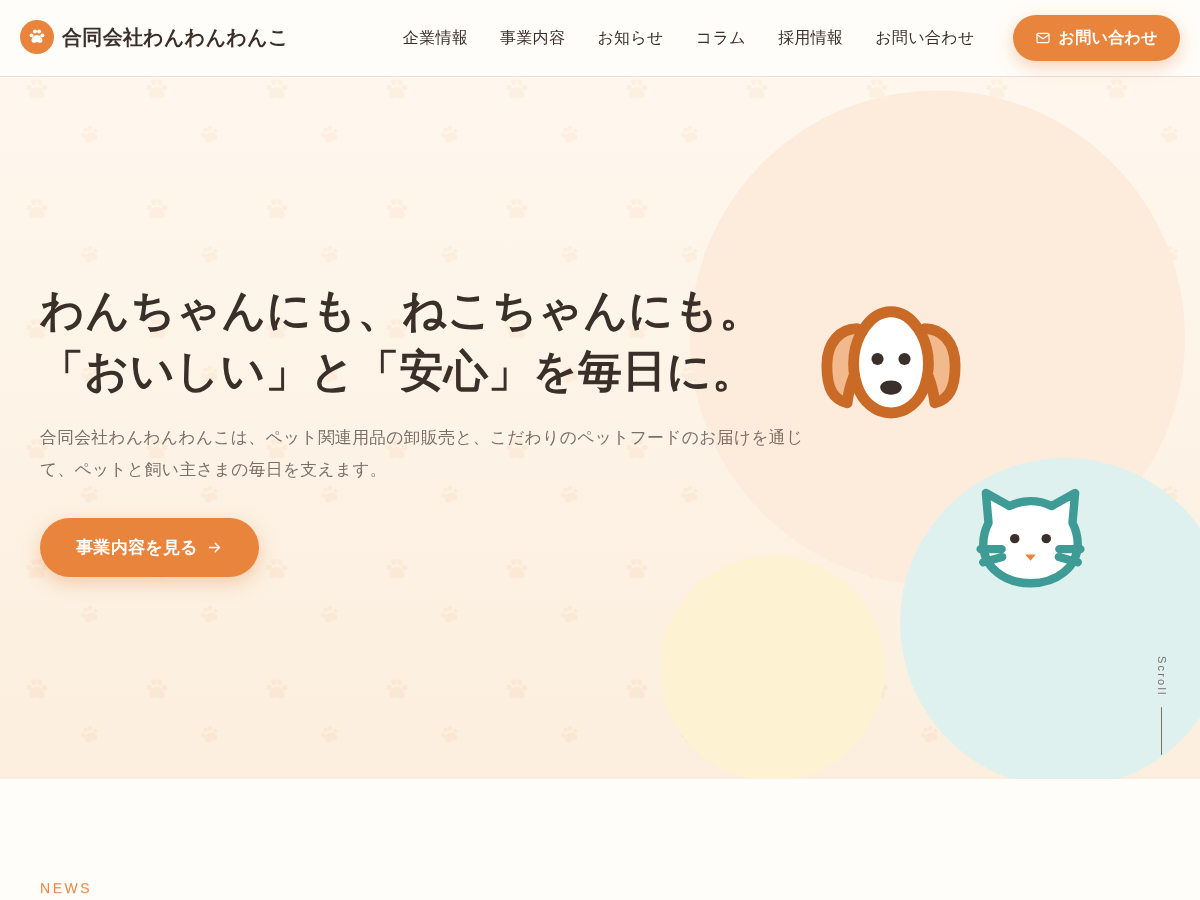
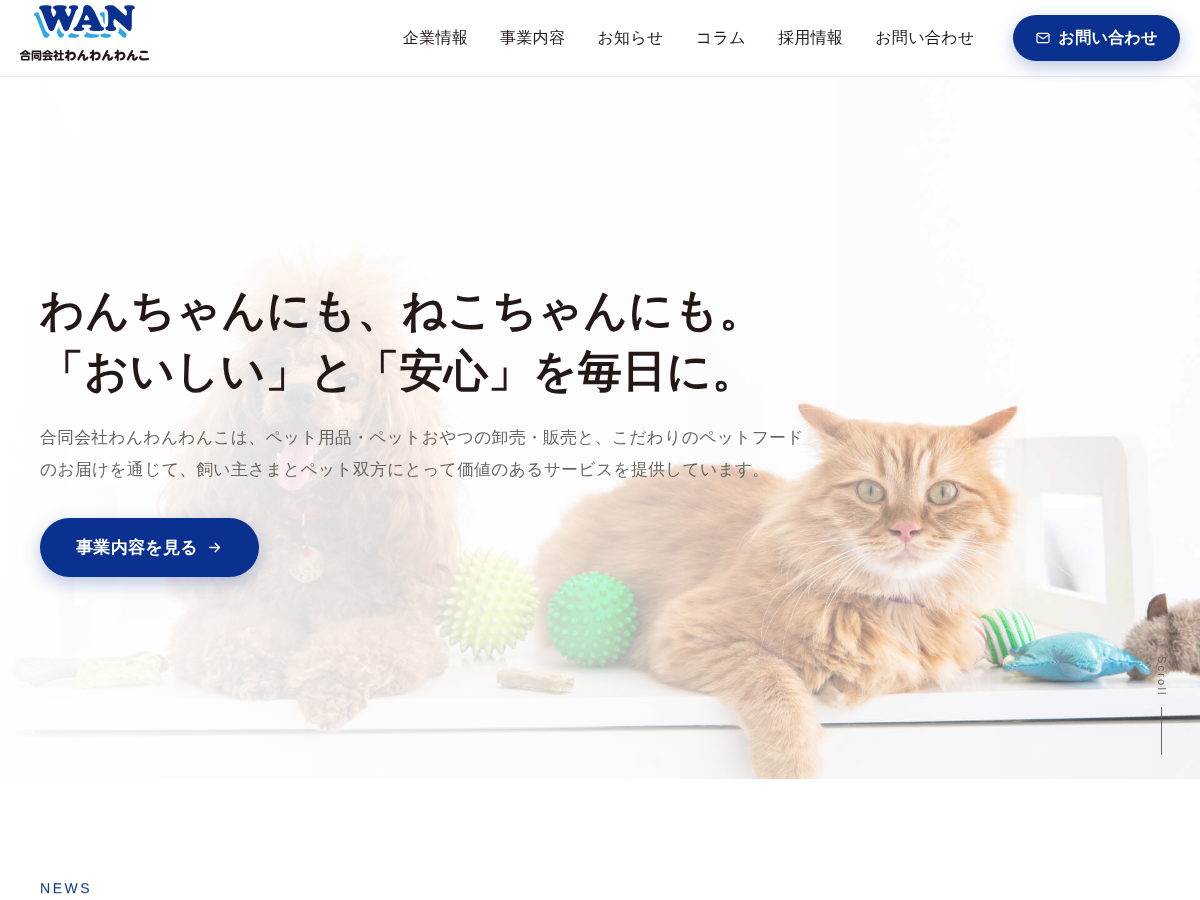
ロゴ配色（濃紺・水色）へ変更し、現行サイトの素材・文言を初期値に反映
- ロゴSVG・写真3点をテーマに同梱し、メインビジュアル／犬フードカード／お約束背景の初期画像に設定
- 会社概要（代表者・所在地・電話・FAX・メール）、にゃんにゃんデリバリーフーズURL、ごあいさつ・お約束文言を現行サイトから反映
- 事業内容ページに卸販売の説明文と主要取引メーカー一覧セクションを追加（カスタマイザーで編集可）
- 参考サイトの構成を踏襲したフッター・サイトマップを維持

Claude-Session: https://claude.ai/code/session_011bhno5SEkpzsshMJkjn4Yk

diff --git a/wp-content/themes/wanko/assets/css/main.css b/wp-content/themes/wanko/assets/css/main.css
@@ -3,22 +3,22 @@
    ========================================================================== */
 
 :root {
-	--c-primary: #e8843c;      /* わんこオレンジ */
-	--c-primary-dark: #c96a26;
-	--c-primary-soft: #fdebdc;
-	--c-accent: #3f9b96;       /* にゃんこティール */
-	--c-accent-soft: #dff1ef;
+	--c-primary: #0a3190;      /* ロゴの濃紺 */
+	--c-primary-dark: #072470;
+	--c-primary-soft: #e4ebf9;
+	--c-accent: #2ea8e1;       /* ロゴの水色 */
+	--c-accent-soft: #dff3fb;
 	--c-yellow: #f6c344;
-	--c-text: #3b2f2a;
-	--c-muted: #7d6f68;
-	--c-line: #eadfd6;
-	--c-bg: #fffdf9;
-	--c-bg-alt: #fbf4ec;
+	--c-text: #231815;         /* ロゴの文字色 */
+	--c-muted: #6b6560;
+	--c-line: #e3e8f0;
+	--c-bg: #ffffff;
+	--c-bg-alt: #f3f6fb;
 	--c-white: #ffffff;
 	--f-body: "Noto Sans JP", "Hiragino Kaku Gothic ProN", "Hiragino Sans", Meiryo, sans-serif;
 	--f-head: "Zen Maru Gothic", "Noto Sans JP", "Hiragino Maru Gothic ProN", sans-serif;
 	--radius: 16px;
-	--shadow: 0 10px 30px rgba(59, 47, 42, 0.08);
+	--shadow: 0 10px 30px rgba(10, 49, 144, 0.08);
 	--container: 1120px;
 	--header-h: 76px;
 }
@@ -76,7 +76,7 @@ iframe { max-width: 100%; }
 	padding: 12px 24px; border-radius: 999px; font-weight: 700; line-height: 1.4;
 	border: 2px solid transparent; white-space: nowrap;
 }
-.btn--primary { background: var(--c-primary); color: #fff; box-shadow: 0 6px 18px rgba(232, 132, 60, .35); }
+.btn--primary { background: var(--c-primary); color: #fff; box-shadow: 0 6px 18px rgba(10, 49, 144, .28); }
 .btn--primary:hover { background: var(--c-primary-dark); color: #fff; transform: translateY(-2px); }
 .btn--ghost { background: #fff; color: var(--c-primary-dark); border-color: var(--c-primary); }
 .btn--ghost:hover { background: var(--c-primary-soft); }
@@ -88,12 +88,14 @@ iframe { max-width: 100%; }
 /* Header ----------------------------------------------------------------- */
 .site-header {
 	position: sticky; top: 0; z-index: 100;
-	background: rgba(255, 253, 249, .92); backdrop-filter: blur(10px);
+	background: rgba(255, 255, 255, .92); backdrop-filter: blur(10px);
 	border-bottom: 1px solid var(--c-line);
 }
 .site-header__inner { width: min(100% - 40px, 1240px); margin-inline: auto; min-height: var(--header-h); display: flex; align-items: center; justify-content: space-between; gap: 24px; }
 .site-header__brand .custom-logo-link img, .site-header__brand .custom-logo { max-height: 52px; width: auto; }
 .site-logo--text { display: inline-flex; align-items: center; gap: 8px; font-family: var(--f-head); font-weight: 700; font-size: 20px; color: var(--c-text); }
+.site-logo--image { display: inline-flex; }
+.site-logo--image img { height: 56px; width: auto; }
 .site-logo__mark { display: inline-flex; width: 34px; height: 34px; border-radius: 50%; background: var(--c-primary); color: #fff; align-items: center; justify-content: center; }
 .site-logo__mark .icon { width: 20px; height: 20px; }
 
@@ -117,9 +119,10 @@ iframe { max-width: 100%; }
 
 /* Hero ------------------------------------------------------------------- */
 .hero { position: relative; min-height: clamp(520px, 78vh, 760px); display: flex; align-items: center; overflow: hidden; background: var(--c-bg-alt); }
+.hero__bg img { object-position: 70% center; }
 .hero__bg { position: absolute; inset: 0; }
 .hero__bg img { width: 100%; height: 100%; object-fit: cover; object-position: center; }
-.hero.has-image .hero__bg::after { content: ""; position: absolute; inset: 0; background: linear-gradient(90deg, rgba(255, 253, 249, .95) 0%, rgba(255, 253, 249, .75) 45%, rgba(255, 253, 249, .1) 100%); }
+.hero.has-image .hero__bg::after { content: ""; position: absolute; inset: 0; background: linear-gradient(90deg, rgba(255, 255, 255, .96) 0%, rgba(255, 255, 255, .82) 42%, rgba(255, 255, 255, .15) 100%); }
 .hero__inner { position: relative; z-index: 1; padding: 80px 0; max-width: 780px; margin-left: max(20px, calc((100% - var(--container)) / 2)); }
 .hero__catch { font-size: clamp(28px, 4vw, 44px); line-height: 1.4; margin-bottom: 20px; }
 .hero__line { display: inline-block; }
@@ -147,10 +150,10 @@ a.shop-card:hover { transform: translateY(-4px); box-shadow: 0 18px 40px rgba(59
 .shop-card__media { position: relative; aspect-ratio: 3 / 2; overflow: hidden; background: var(--c-primary-soft); }
 .shop-card__media img { width: 100%; height: 100%; object-fit: cover; transition: transform .5s; }
 a.shop-card:hover .shop-card__media img { transform: scale(1.04); }
-.shop-card__placeholder { width: 100%; height: 100%; display: flex; align-items: center; justify-content: center; color: var(--c-primary); background: radial-gradient(circle at 30% 30%, #fff3e6 0, var(--c-primary-soft) 60%); }
+.shop-card__placeholder { width: 100%; height: 100%; display: flex; align-items: center; justify-content: center; color: var(--c-primary); background: radial-gradient(circle at 30% 30%, #f4f7fd 0, var(--c-primary-soft) 60%); }
 .shop-card__placeholder .icon { width: 96px; height: 96px; opacity: .8; }
 .shop-card--cat .shop-card__media { background: var(--c-accent-soft); }
-.shop-card--cat .shop-card__placeholder { color: var(--c-accent); background: radial-gradient(circle at 30% 30%, #f0faf9 0, var(--c-accent-soft) 60%); }
+.shop-card--cat .shop-card__placeholder { color: var(--c-accent); background: radial-gradient(circle at 30% 30%, #f2fbff 0, var(--c-accent-soft) 60%); }
 .shop-card--all .shop-card__media { background: #fdf3d3; }
 .shop-card--all .shop-card__placeholder { color: #b58a12; background: radial-gradient(circle at 30% 30%, #fffbea 0, #fdf3d3 60%); }
 .shop-card__label { position: absolute; left: 16px; top: 16px; padding: 4px 14px; border-radius: 999px; background: rgba(255, 255, 255, .92); color: var(--c-primary-dark); font-family: var(--f-head); font-size: 12px; font-weight: 700; letter-spacing: .12em; text-transform: uppercase; }
@@ -181,15 +184,15 @@ a.shop-card:hover .shop-card__media img { transform: scale(1.04); }
 .card__body { padding: 20px 22px 24px; }
 .card__title { font-size: 17px; margin: 8px 0 8px; }
 .card__excerpt { font-size: 14px; color: var(--c-muted); margin: 0; display: -webkit-box; -webkit-line-clamp: 3; -webkit-box-orient: vertical; overflow: hidden; }
-.thumb-placeholder { width: 100%; height: 100%; display: flex; align-items: center; justify-content: center; color: var(--c-primary); background: repeating-linear-gradient(45deg, var(--c-bg-alt) 0 12px, #f6ece1 12px 24px); }
+.thumb-placeholder { width: 100%; height: 100%; display: flex; align-items: center; justify-content: center; color: var(--c-accent); background: repeating-linear-gradient(45deg, var(--c-bg-alt) 0 12px, #e9eef8 12px 24px); }
 .thumb-placeholder .icon { width: 56px; height: 56px; opacity: .6; }
 .thumb-placeholder--lg { width: 160px; height: 160px; border-radius: 50%; margin: 0 auto 24px; }
 
 /* Promise ---------------------------------------------------------------- */
 .section--promise { background: #fff; padding-top: 0; }
-.promise-band { position: relative; overflow: hidden; background: linear-gradient(135deg, #3b2f2a 0%, #6b4a3a 100%); color: #fff; padding: clamp(72px, 10vw, 128px) 0; text-align: center; margin-bottom: 0; }
+.promise-band { position: relative; overflow: hidden; background: linear-gradient(135deg, #0b1f52 0%, #0a3190 100%); color: #fff; padding: clamp(72px, 10vw, 128px) 0; text-align: center; margin-bottom: 0; }
 .promise-band__bg { position: absolute; inset: 0; width: 100%; height: 100%; object-fit: cover; }
-.promise-band.has-image::after { content: ""; position: absolute; inset: 0; background: rgba(40, 28, 22, .55); }
+.promise-band.has-image::after { content: ""; position: absolute; inset: 0; background: rgba(8, 24, 70, .58); }
 .promise-band__inner { position: relative; z-index: 1; max-width: 820px; }
 .promise-band .section-title__en { color: var(--c-yellow); }
 .promise-band .section-title__ja { color: #fff; }
@@ -203,6 +206,12 @@ a.shop-card:hover .shop-card__media img { transform: scale(1.04); }
 .promise-item__num { position: absolute; top: -18px; left: 24px; padding: 4px 14px; border-radius: 999px; background: var(--c-primary); color: #fff; font-family: var(--f-head); font-weight: 700; letter-spacing: .1em; }
 .promise-item:nth-child(2) .promise-item__num { background: var(--c-accent); }
 .promise-item:nth-child(3) .promise-item__num { background: #d9a520; }
+
+/* Partners --------------------------------------------------------------- */
+.section--partners { background: #fff; }
+.partner-list { display: grid; grid-template-columns: repeat(auto-fill, minmax(220px, 1fr)); gap: 10px 16px; max-width: 1000px; margin: 0 auto; }
+.partner-list li { background: var(--c-bg-alt); border-radius: 8px; padding: 10px 16px; font-size: 14px; position: relative; padding-left: 30px; }
+.partner-list li::before { content: ""; position: absolute; left: 14px; top: 50%; width: 7px; height: 7px; border-radius: 50%; background: var(--c-accent); transform: translateY(-50%); }
 .promise-item__title { font-size: 20px; margin-bottom: 10px; }
 .promise-item__body { margin: 0; font-size: 15px; color: var(--c-muted); }
 /* on inner pages the promise section follows other sections: give it breathing room */
@@ -233,22 +242,23 @@ a.shop-card:hover .shop-card__media img { transform: scale(1.04); }
 .link-tile:hover .icon { background: var(--c-primary); color: #fff; }
 
 /* CTA band --------------------------------------------------------------- */
-.cta-band { background: linear-gradient(135deg, var(--c-primary) 0%, #f2a15f 100%); color: #fff; padding: clamp(48px, 6vw, 72px) 0; }
+.cta-band { background: linear-gradient(135deg, var(--c-primary) 0%, var(--c-accent) 100%); color: #fff; padding: clamp(48px, 6vw, 72px) 0; }
 .cta-band__inner { display: flex; align-items: center; justify-content: space-between; gap: 32px; }
 .cta-band__en { font-family: var(--f-head); letter-spacing: .18em; font-size: 13px; opacity: .9; }
 .cta-band__title { font-size: clamp(24px, 3vw, 32px); margin-bottom: 8px; }
 .cta-band__text p { margin: 0; opacity: .95; }
 .cta-band__actions { display: flex; flex-direction: column; align-items: center; gap: 12px; }
 .cta-band .btn--primary { background: #fff; color: var(--c-primary-dark); box-shadow: 0 8px 24px rgba(0, 0, 0, .15); }
-.cta-band .btn--primary:hover { background: #fff5ec; }
+.cta-band .btn--primary:hover { background: #eef4ff; }
 .cta-band__tel { color: #fff; font-family: var(--f-head); font-weight: 700; font-size: 20px; }
 
 /* Footer ----------------------------------------------------------------- */
-.site-footer { background: #3b2f2a; color: #e9ded6; }
-.site-footer a { color: #e9ded6; }
+.site-footer { background: #0b1f52; color: #d9e1f5; }
+.site-footer a { color: #d9e1f5; }
 .site-footer a:hover { color: #fff; }
 .site-footer__inner { display: flex; justify-content: space-between; gap: 40px; padding: 56px 0 40px; }
 .site-footer__brand .site-logo--text { color: #fff; }
+.site-footer__brand .site-logo--image img { height: 60px; background: #fff; padding: 8px 14px; border-radius: 10px; }
 .site-footer__brand .custom-logo-link img { max-height: 48px; width: auto; background: #fff; padding: 6px 10px; border-radius: 8px; }
 .site-footer__address, .site-footer__note { font-size: 14px; margin: 16px 0 0; opacity: .85; }
 .site-footer__sns { display: flex; gap: 14px; margin-top: 16px; font-size: 14px; }
@@ -313,6 +323,7 @@ a.shop-card:hover .shop-card__media img { transform: scale(1.04); }
 .contact-privacy { font-size: 13px; color: var(--c-muted); margin-top: 24px; text-align: center; }
 .notice { padding: 16px 20px; border-radius: 8px; background: var(--c-bg-alt); }
 .notice--admin { background: #fff8e1; border: 1px dashed #e0b437; font-size: 13px; }
+.section--shops { background: var(--c-bg-alt); }
 
 /* Contact Form 7 defaults */
 .wpcf7 label { display: block; font-weight: 700; margin-bottom: 6px; }
@@ -393,7 +404,7 @@ a.shop-card:hover .shop-card__media img { transform: scale(1.04); }
 	.global-nav__contact { margin-top: 24px; justify-content: center; padding: 16px; }
 	body.nav-open { overflow: hidden; }
 	.hero__inner { margin-left: 20px; padding: 64px 0 96px; }
-	.hero.has-image .hero__bg::after { background: linear-gradient(180deg, rgba(255, 253, 249, .92) 0%, rgba(255, 253, 249, .8) 100%); }
+	.hero.has-image .hero__bg::after { background: linear-gradient(180deg, rgba(255, 255, 255, .94) 0%, rgba(255, 255, 255, .82) 100%); }
 	.hero__scroll { display: none; }
 	.section-head { flex-direction: column; align-items: flex-start; gap: 8px; }
 	.news-item__link { grid-template-columns: 1fr auto; gap: 6px 16px; }

diff --git a/wp-content/themes/wanko/assets/css/editor.css b/wp-content/themes/wanko/assets/css/editor.css
@@ -1,5 +1,5 @@
 /* Block editor: mirror the front-end typography. */
-.editor-styles-wrapper { font-family: "Noto Sans JP", "Hiragino Kaku Gothic ProN", Meiryo, sans-serif; color: #3b2f2a; line-height: 2; }
-.editor-styles-wrapper h2 { padding: 8px 0 8px 16px; border-left: 5px solid #e8843c; font-size: 24px; }
-.editor-styles-wrapper h3 { color: #c96a26; font-size: 20px; }
-.editor-styles-wrapper table th { background: #fdebdc; }
+.editor-styles-wrapper { font-family: "Noto Sans JP", "Hiragino Kaku Gothic ProN", Meiryo, sans-serif; color: #231815; line-height: 2; }
+.editor-styles-wrapper h2 { padding: 8px 0 8px 16px; border-left: 5px solid #0a3190; font-size: 24px; }
+.editor-styles-wrapper h3 { color: #072470; font-size: 20px; }
+.editor-styles-wrapper table th { background: #e4ebf9; }

diff --git a/wp-content/themes/wanko/inc/customizer.php b/wp-content/themes/wanko/inc/customizer.php
@@ -15,43 +15,44 @@ defined( 'ABSPATH' ) || exit;
  * @return array
  */
 function wanko_defaults() {
+	$img = get_template_directory_uri() . '/assets/img/';
 	return array(
 		// メインビジュアル.
 		'hero_catch'       => "わんちゃんにも、ねこちゃんにも。\n「おいしい」と「安心」を毎日に。",
-		'hero_lead'        => '合同会社わんわんわんこは、ペット関連用品の卸販売と、こだわりのペットフードのお届けを通じて、ペットと飼い主さまの毎日を支えます。',
-		'hero_image'       => '',
+		'hero_lead'        => '合同会社わんわんわんこは、ペット用品・ペットおやつの卸売・販売と、こだわりのペットフードのお届けを通じて、飼い主さまとペット双方にとって価値のあるサービスを提供しています。',
+		'hero_image'       => $img . 'photo-hero.jpg',
 		'hero_btn_label'   => '事業内容を見る',
 		'hero_btn_url'     => '/business/',
 
 		// こだわりのペットフード（ECサイトバナー）.
 		'shop_cat_name'    => 'にゃんにゃんデリバリーフーズ',
-		'shop_cat_desc'    => 'ねこちゃん専用のこだわりフードをご自宅へお届け。',
-		'shop_cat_url'     => '',
+		'shop_cat_desc'    => '猫の「食べる」をもっとラクに。猫の状態やライフステージに合わせたフードを定期的にお届けする、カスタマイズ可能なキャットフードの定期便です。',
+		'shop_cat_url'     => 'https://nyan-nyan-delivery.myshopify.com/',
 		'shop_cat_image'   => '',
 		'shop_dog_name'    => 'わんわんデリバリーフーズ',
-		'shop_dog_desc'    => 'わんちゃんの健康を考えたフードをご自宅へお届け。',
+		'shop_dog_desc'    => 'わんちゃんの健康を考えたフードを、ご自宅へ定期的にお届けするサービスです。',
 		'shop_dog_url'     => '',
-		'shop_dog_image'   => '',
+		'shop_dog_image'   => $img . 'photo-dog-food.jpg',
 		'shop_all_name'    => 'ペット総合ショップ',
 		'shop_all_desc'    => 'フードから日用品まで、ペットとの暮らしをまるごとサポート。',
 		'shop_all_url'     => '',
 		'shop_all_image'   => '',
 
 		// 私たちのお約束.
-		'promise_image'    => '',
-		'promise_catch'    => '「自分のペットに与えたいものだけを。」',
-		'promise_lead'     => '私たちは、ペットも飼い主さまも「家族」だと考えています。だからこそ、商品選びからお届けまで、妥協しません。',
-		'promise_1_title'  => '安心・安全な商品だけを',
-		'promise_1_body'   => '取り扱う商品は、私たち自身が自分のペットに与えたいと思えるものだけ。原材料・製造背景を確認したうえでお届けします。',
-		'promise_2_title'  => '飼い主さまの声に寄り添う',
-		'promise_2_body'   => '小さなご相談にも丁寧に対応します。お困りごとがあれば、まずはお気軽にお問い合わせください。',
-		'promise_3_title'  => 'パートナーと共に育つ',
-		'promise_3_body'   => 'お取引先さま、スタッフ、そしてペットたち。関わるすべての存在と、長く良い関係を築いていきます。',
+		'promise_image'    => $img . 'photo-dog-grass.jpg',
+		'promise_catch'    => '飼い主さまとペット、双方にとって価値のあるサービスを。',
+		'promise_lead'     => '私たちは、品質と安心を重視し、お客さま満足度の向上に向けて継続的なサービス改善に取り組んでいます。',
+		'promise_1_title'  => '信頼性の高い商品',
+		'promise_1_body'   => '主要メーカーとの取引により、ペットフードから日用品・ケア用品・季節商品まで、信頼できる商品を豊富にご用意しています。',
+		'promise_2_title'  => '安定した供給体制',
+		'promise_2_body'   => '小ロットでのご注文にも対応し、取引規模やニーズに応じた柔軟なご提案と、継続的にご利用いただける供給体制を整えています。',
+		'promise_3_title'  => '品質と安心を最優先に',
+		'promise_3_body'   => 'ペットの健康維持と飼い主さまの利便性の両立を目指し、安定した品質のサービスを継続的に提供します。',
 
 		// ごあいさつ.
 		'greeting_title'   => 'ペットと人が、もっと幸せに暮らせる社会へ。',
-		'greeting_body'    => "合同会社わんわんわんこのウェブサイトをご覧いただき、ありがとうございます。\n\n私たちは、ペット関連用品の卸販売を軸に、ペットフードのデリバリー事業を展開しています。「自分のペットに与えたいものだけを届ける」を合言葉に、商品の選定からお客さまのもとへ届くまで、ひとつひとつ丁寧に向き合っています。\n\nこれからも、ペットと飼い主さまの毎日に寄り添う企業であり続けます。",
-		'greeting_name'    => '合同会社わんわんわんこ　代表',
+		'greeting_body'    => "合同会社わんわんわんこのウェブサイトをご覧いただき、ありがとうございます。\n\n当社は、ペット用品およびペットおやつの卸売・販売を中心に事業を展開しています。信頼性の高い商品と安定した供給体制を通じて、飼い主さまとペット双方にとって価値のあるサービスを提供することが私たちの使命です。\n\n品質と安心を重視し、お客さま満足度の向上に向けて継続的なサービス改善に取り組んでまいります。今後とも、合同会社わんわんわんこをよろしくお願いいたします。",
+		'greeting_name'    => '合同会社わんわんわんこ　代表執行役員　鷲見 翼',
 		'greeting_image'   => '',
 
 		// 会社概要.
@@ -61,17 +62,22 @@ function wanko_defaults() {
 		'company_capital'  => '',
 		'company_address'  => "〒550-0005\n大阪府大阪市西区西本町1丁目2-19 AXIS西本町セントラルビル401",
 		'company_tel'      => '06-7167-9040',
-		'company_email'    => '',
+		'company_fax'      => '06-6710-9175',
+		'company_email'    => 'info2@wanko.co.jp',
 		'company_hours'    => '',
-		'company_business' => "ペット関連用品の卸販売\nペットフードのデリバリー販売（にゃんにゃんデリバリーフーズ／わんわんデリバリーフーズ）\nペット総合ショップの運営（準備中）",
+		'company_business' => "ペット用品・ペットおやつの卸売・販売\nキャットフードの定期便「にゃんにゃんデリバリーフーズ」の運営\nドッグフードの定期便「わんわんデリバリーフーズ」（準備中）\nペット総合ショップの運営（準備中）",
 		'company_map'      => '',
+
+		// 事業内容：卸販売・主要取引メーカー.
+		'wholesale_body'   => "当社は、ペット用品およびペットおやつの卸売・販売を行っています。ペットフードをはじめ、日用品、ケア用品、季節商品など幅広い商品を取り扱っています。\n\n小ロットでのご注文にも対応しており、取引規模やニーズに応じた柔軟なご提案が可能です。安定した供給体制のもと、継続的にご利用いただける環境を整えています。ご相談・お見積りなど、お気軽にお問い合わせください。",
+		'partners_list'    => "㈱アイル\nアイシア㈱\n秋元水産㈱\nイースター㈱\n㈱イトウアンドカンパニーリミテッド\nいなばペットフード㈱\nオリエンタル酵母工業㈱\n㈱グリーンベル\n現代製薬㈱\n近喜商事㈱\nシヤチハタ㈱\n㈱マルカン サンライズ\n新東北化学工業㈱\n㈱スマック\n㈱スーパーキャット\nデビフペット㈱\nドギーマンハヤシ㈱\n日本ペットフード㈱\nネスレ日本㈱ネスレピュリナペットケア\nハイペット㈱\n常陸化工㈱\n日本ヒルズ・コルゲート㈱\nペパーレット㈱\nペットライン㈱\n㈱ペティオ\nマースジャパンリミテッド\n㈱マルカン\n㈲ヤマダシステム\nユニ・チャーム㈱\nライオンペット㈱",
 
 		// 採用情報.
 		'recruit_lead'     => '「ペットが好き」その気持ちを、仕事にしませんか。合同会社わんわんわんこでは、一緒に事業を育ててくれる仲間を募集しています。',
 		'recruit_body'     => '',
 
 		// お問い合わせ.
-		'contact_lead'     => '商品のお取り扱い、法人さまのお取引、採用に関するご質問など、お気軽にお問い合わせください。',
+		'contact_lead'     => 'ご不明な点やご質問がございましたら、お気軽にお問い合わせください。商品のお取り扱い、法人さまのお取引、採用に関するご相談も承ります。',
 		'contact_shortcode' => '',
 
 		// ムービー（任意）.
@@ -119,6 +125,7 @@ function wanko_customize_register( $wp_customize ) {
 		'promise'  => '私たちのお約束',
 		'greeting' => '企業情報：ごあいさつ',
 		'company'  => '企業情報：会社概要',
+		'business' => '事業内容：卸販売・主要取引メーカー',
 		'recruit'  => '採用情報',
 		'movie'    => 'トップ：ムービー（任意）',
 		'contact'  => 'お問い合わせ',
@@ -179,10 +186,14 @@ function wanko_customize_register( $wp_customize ) {
 		'company_capital'   => array( 'company', '資本金', 'text' ),
 		'company_address'   => array( 'company', '所在地（改行可）', 'textarea' ),
 		'company_tel'       => array( 'company', '電話番号', 'text' ),
+		'company_fax'       => array( 'company', 'FAX', 'text' ),
 		'company_email'     => array( 'company', 'メールアドレス', 'email' ),
 		'company_hours'     => array( 'company', '営業時間', 'text' ),
 		'company_business'  => array( 'company', '事業内容（1行1項目）', 'textarea' ),
 		'company_map'       => array( 'company', 'Googleマップ埋め込み用 src URL（任意）', 'url' ),
+
+		'wholesale_body'    => array( 'business', '卸販売の説明文（空行で段落分け）', 'textarea' ),
+		'partners_list'     => array( 'business', '主要取引メーカー（1行1社）', 'textarea' ),
 
 		'recruit_lead'      => array( 'recruit', 'リード文', 'textarea' ),
 		'recruit_body'      => array( 'recruit', '補足文（募集要項は固定ページ本文に記載）', 'textarea' ),

diff --git a/wp-content/themes/wanko/page-business.php b/wp-content/themes/wanko/page-business.php
@@ -13,21 +13,36 @@ wanko_breadcrumb( array( array( 'label' => '事業内容' ) ) );
 ?>
 <section class="section" id="wholesale">
 	<div class="container">
-		<?php wanko_section_title( 'Wholesale', 'ペット関連用品の卸販売' ); ?>
+		<?php wanko_section_title( 'Wholesale', 'ペット用品・ペットおやつの卸売・販売' ); ?>
 		<div class="feature">
 			<div class="feature__icon"><?php echo wanko_icon( 'box' ); // phpcs:ignore ?></div>
 			<div class="feature__text prose">
-				<p>ペットフード、おやつ、日用品、トイレ用品など、ペット関連用品を小売店さま・法人さま向けに卸販売しています。取り扱いブランドの選定から在庫管理、配送まで一貫して対応し、安定した供給体制でお取引先さまの店舗運営を支えます。</p>
+				<?php wanko_the_paragraphs( 'wholesale_body' ); ?>
 				<ul>
 					<li>ペットショップ・動物病院・トリミングサロンさまへの卸販売</li>
 					<li>ECサイト運営事業者さまへの商品供給</li>
-					<li>小ロットからのご相談・新規お取引のご相談</li>
+					<li>小ロットからのご注文・新規お取引のご相談</li>
 				</ul>
 				<p><a class="btn btn--ghost" href="<?php echo esc_url( wanko_page_url( 'contact' ) ); ?>">お取引のご相談はこちら<?php echo wanko_icon( 'arrow' ); // phpcs:ignore ?></a></p>
 			</div>
 		</div>
 	</div>
 </section>
+
+<?php $partners = array_filter( array_map( 'trim', explode( "\n", (string) wanko_get( 'partners_list' ) ) ) ); ?>
+<?php if ( $partners ) : ?>
+	<section class="section section--partners" id="partners">
+		<div class="container">
+			<?php wanko_section_title( 'Partners', '主要取引メーカー' ); ?>
+			<p class="section-lead">国内外の主要メーカーとのお取引により、豊富な品揃えと安定した供給を実現しています。（五十音順・敬称略）</p>
+			<ul class="partner-list">
+				<?php foreach ( $partners as $partner ) : ?>
+					<li><?php echo esc_html( $partner ); ?></li>
+				<?php endforeach; ?>
+			</ul>
+		</div>
+	</section>
+<?php endif; ?>
 
 <?php get_template_part( 'template-parts/shops' ); ?>
 

diff --git a/wp-content/themes/wanko/inc/template-tags.php b/wp-content/themes/wanko/inc/template-tags.php
@@ -41,10 +41,10 @@ function wanko_the_logo() {
 		return;
 	}
 	printf(
-		'<a class="site-logo site-logo--text" href="%1$s" rel="home"><span class="site-logo__mark" aria-hidden="true">%3$s</span><span class="site-logo__name">%2$s</span></a>',
+		'<a class="site-logo site-logo--image" href="%1$s" rel="home"><img src="%3$s" alt="%2$s" width="167" height="72"></a>',
 		esc_url( home_url( '/' ) ),
-		esc_html( get_bloginfo( 'name' ) ),
-		wanko_icon( 'paw' ) // phpcs:ignore WordPress.Security.EscapeOutput
+		esc_attr( get_bloginfo( 'name' ) ),
+		esc_url( WANKO_URI . '/assets/img/logo.svg' )
 	);
 }
 
@@ -213,7 +213,8 @@ function wanko_sitemap_tree() {
 			'label'    => '事業内容',
 			'url'      => wanko_page_url( 'business' ),
 			'children' => array(
-				array( 'label' => 'ペット関連用品の卸販売', 'url' => wanko_page_url( 'business' ) . '#wholesale' ),
+				array( 'label' => 'ペット用品・ペットおやつの卸売・販売', 'url' => wanko_page_url( 'business' ) . '#wholesale' ),
+				array( 'label' => '主要取引メーカー', 'url' => wanko_page_url( 'business' ) . '#partners' ),
 				array( 'label' => wanko_get( 'shop_cat_name' ), 'url' => wanko_page_url( 'business' ) . '#shops' ),
 				array( 'label' => wanko_get( 'shop_dog_name' ), 'url' => wanko_page_url( 'business' ) . '#shops' ),
 				array( 'label' => wanko_get( 'shop_all_name' ), 'url' => wanko_page_url( 'business' ) . '#shops' ),

diff --git a/tools/preview/render.php b/tools/preview/render.php
@@ -22,14 +22,7 @@ require __DIR__ . '/stubs.php';
 require $theme . '/functions.php';
 
 $mods = array(
-	'wanko_company_ceo'     => '代表社員　山田 太郎',
-	'wanko_company_founded' => '2020年4月',
-	'wanko_company_address' => "〒000-0000\n東京都○○区○○ 1-2-3",
-	'wanko_company_tel'     => '03-0000-0000',
-	'wanko_company_email'   => 'info@example.com',
-	'wanko_company_hours'   => '平日 9:00〜18:00',
-	'wanko_shop_cat_url'    => 'https://example.com/nyan',
-	'wanko_movie_url'       => 'https://www.youtube.com/watch?v=dQw4w9WgXcQ',
+	'wanko_movie_url' => 'https://www.youtube.com/watch?v=dQw4w9WgXcQ',
 );
 
 $views = array(

diff --git a/wp-content/themes/wanko/page-company.php b/wp-content/themes/wanko/page-company.php
@@ -48,6 +48,7 @@ wanko_breadcrumb( array( array( 'label' => '企業情報' ) ) );
 			'資本金'   => 'company_capital',
 			'所在地'   => 'company_address',
 			'電話番号'  => 'company_tel',
+			'FAX'   => 'company_fax',
 			'メール'   => 'company_email',
 			'営業時間'  => 'company_hours',
 			'事業内容'  => 'company_business',

diff --git a/README.md b/README.md
@@ -62,9 +62,14 @@ docker run --rm -p 8080:80 \
 
 （DBコンテナは別途用意。`docker compose` を使う場合は `wordpress` と `mariadb` を組み合わせてください。）
 
+## 素材について
+
+- `assets/img/logo.svg` と `assets/img/photo-*.jpg` は現行サイト（wanko.co.jp）から引き継いだ素材です。写真のライセンス（ストック素材の場合は新サイトでの利用可否）は公開前に確認してください。
+- にゃんにゃんデリバリーフーズは BASE（https://wanwanwanko.official.ec/）と Shopify（https://nyan-nyan-delivery.myshopify.com/）の2店舗があり、初期値は Shopify 側です。カスタマイザーから変更できます。
+
 ## 開発メモ
 
 - 文言は `inc/customizer.php` の `wanko_defaults()` に初期値をまとめています。
 - スタイルは `assets/css/main.css`、動作は `assets/js/main.js`（依存ライブラリなし）。
-- カラー：オレンジ `#e8843c`（いぬ）／ティール `#3f9b96`（ねこ）／イエロー `#f6c344`（総合）。
+- カラー：ロゴの濃紺 `#0a3190`（基調・いぬ）／水色 `#2ea8e1`（ねこ）／イエロー `#f6c344`（総合）。
 - フォント：Noto Sans JP（本文）＋ Zen Maru Gothic（見出し）を Google Fonts から読み込み。
